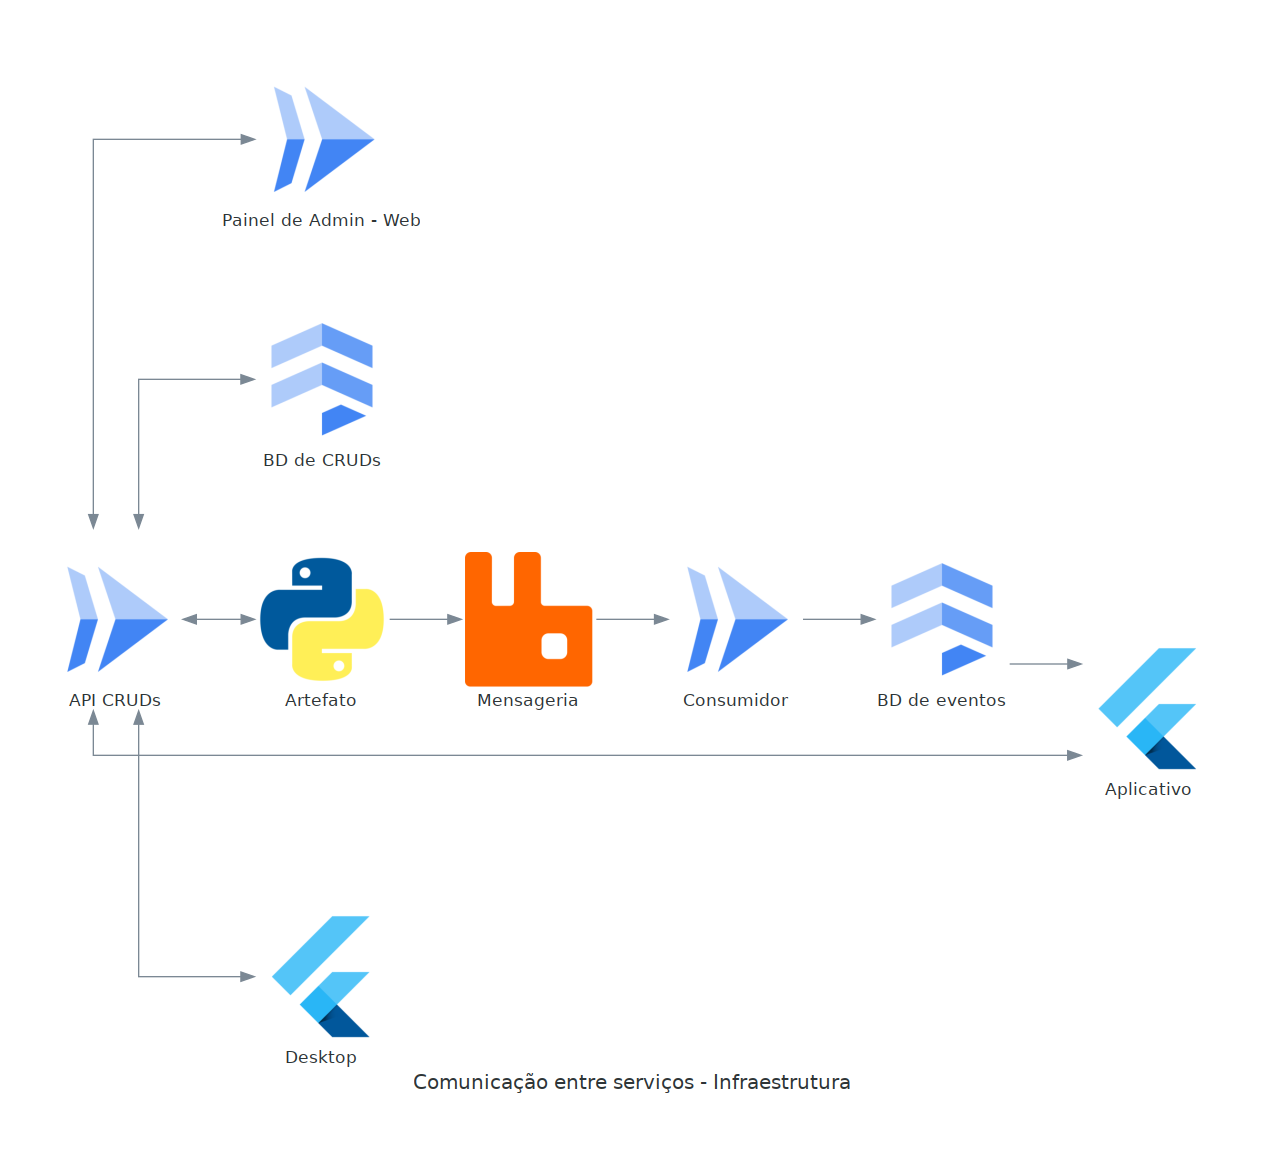
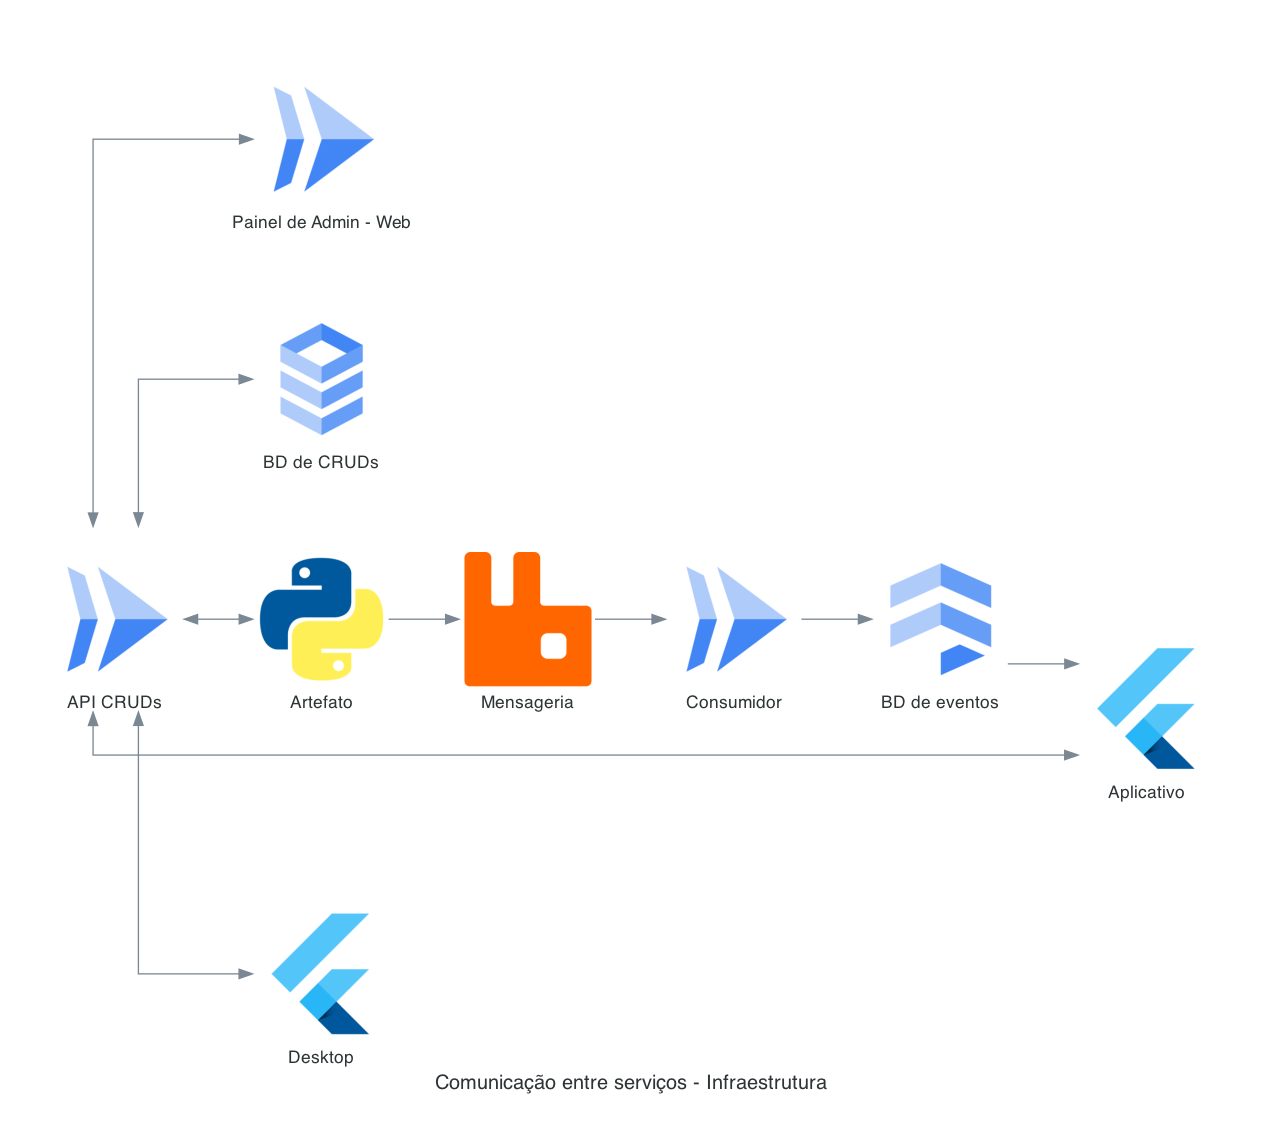
docs: atualiza diagramas de comunicação para incluirem PostgreSQL e Cloud SQL

diff --git a/docs/diagramas/comunicacao_v2.py b/docs/diagramas/comunicacao_v2.py
@@ -2,6 +2,7 @@ import diagrams as d
 import diagrams.programming.language as pl
 import diagrams.programming.framework as pf
 import diagrams.onprem.queue as oq
+import diagrams.onprem.database as od
 import diagrams.gcp.database as gd
 import diagrams.gcp.compute as gc
 import diagrams.firebase.base as fb
@@ -15,7 +16,7 @@ with d.Diagram('Comunicação entre serviços - Linguagens',
     consumer = pf.Spring('Consumidor de mensagens')
     web = pl.Javascript('Painel de Admin - Web')
 
-    bd = gd.Firestore('BD de CRUDs')
+    bd = od.PostgreSQL('BD de CRUDs')
     bd_eventos = gd.Firestore('BD de eventos')
     artefato = pl.Python('Artefato')
     rabbitmq = oq.RabbitMQ('Mensageria')
@@ -36,7 +37,7 @@ with d.Diagram('Comunicação entre serviços - Infraestrutura',
     consumer = gc.Run('Consumidor')
     web = gc.Run('Painel de Admin - Web')
 
-    bd = gd.Firestore('BD de CRUDs')
+    bd = gd.SQL('BD de CRUDs')
     bd_eventos = gd.Firestore('BD de eventos')
 
     artefato = pl.Python('Artefato')
